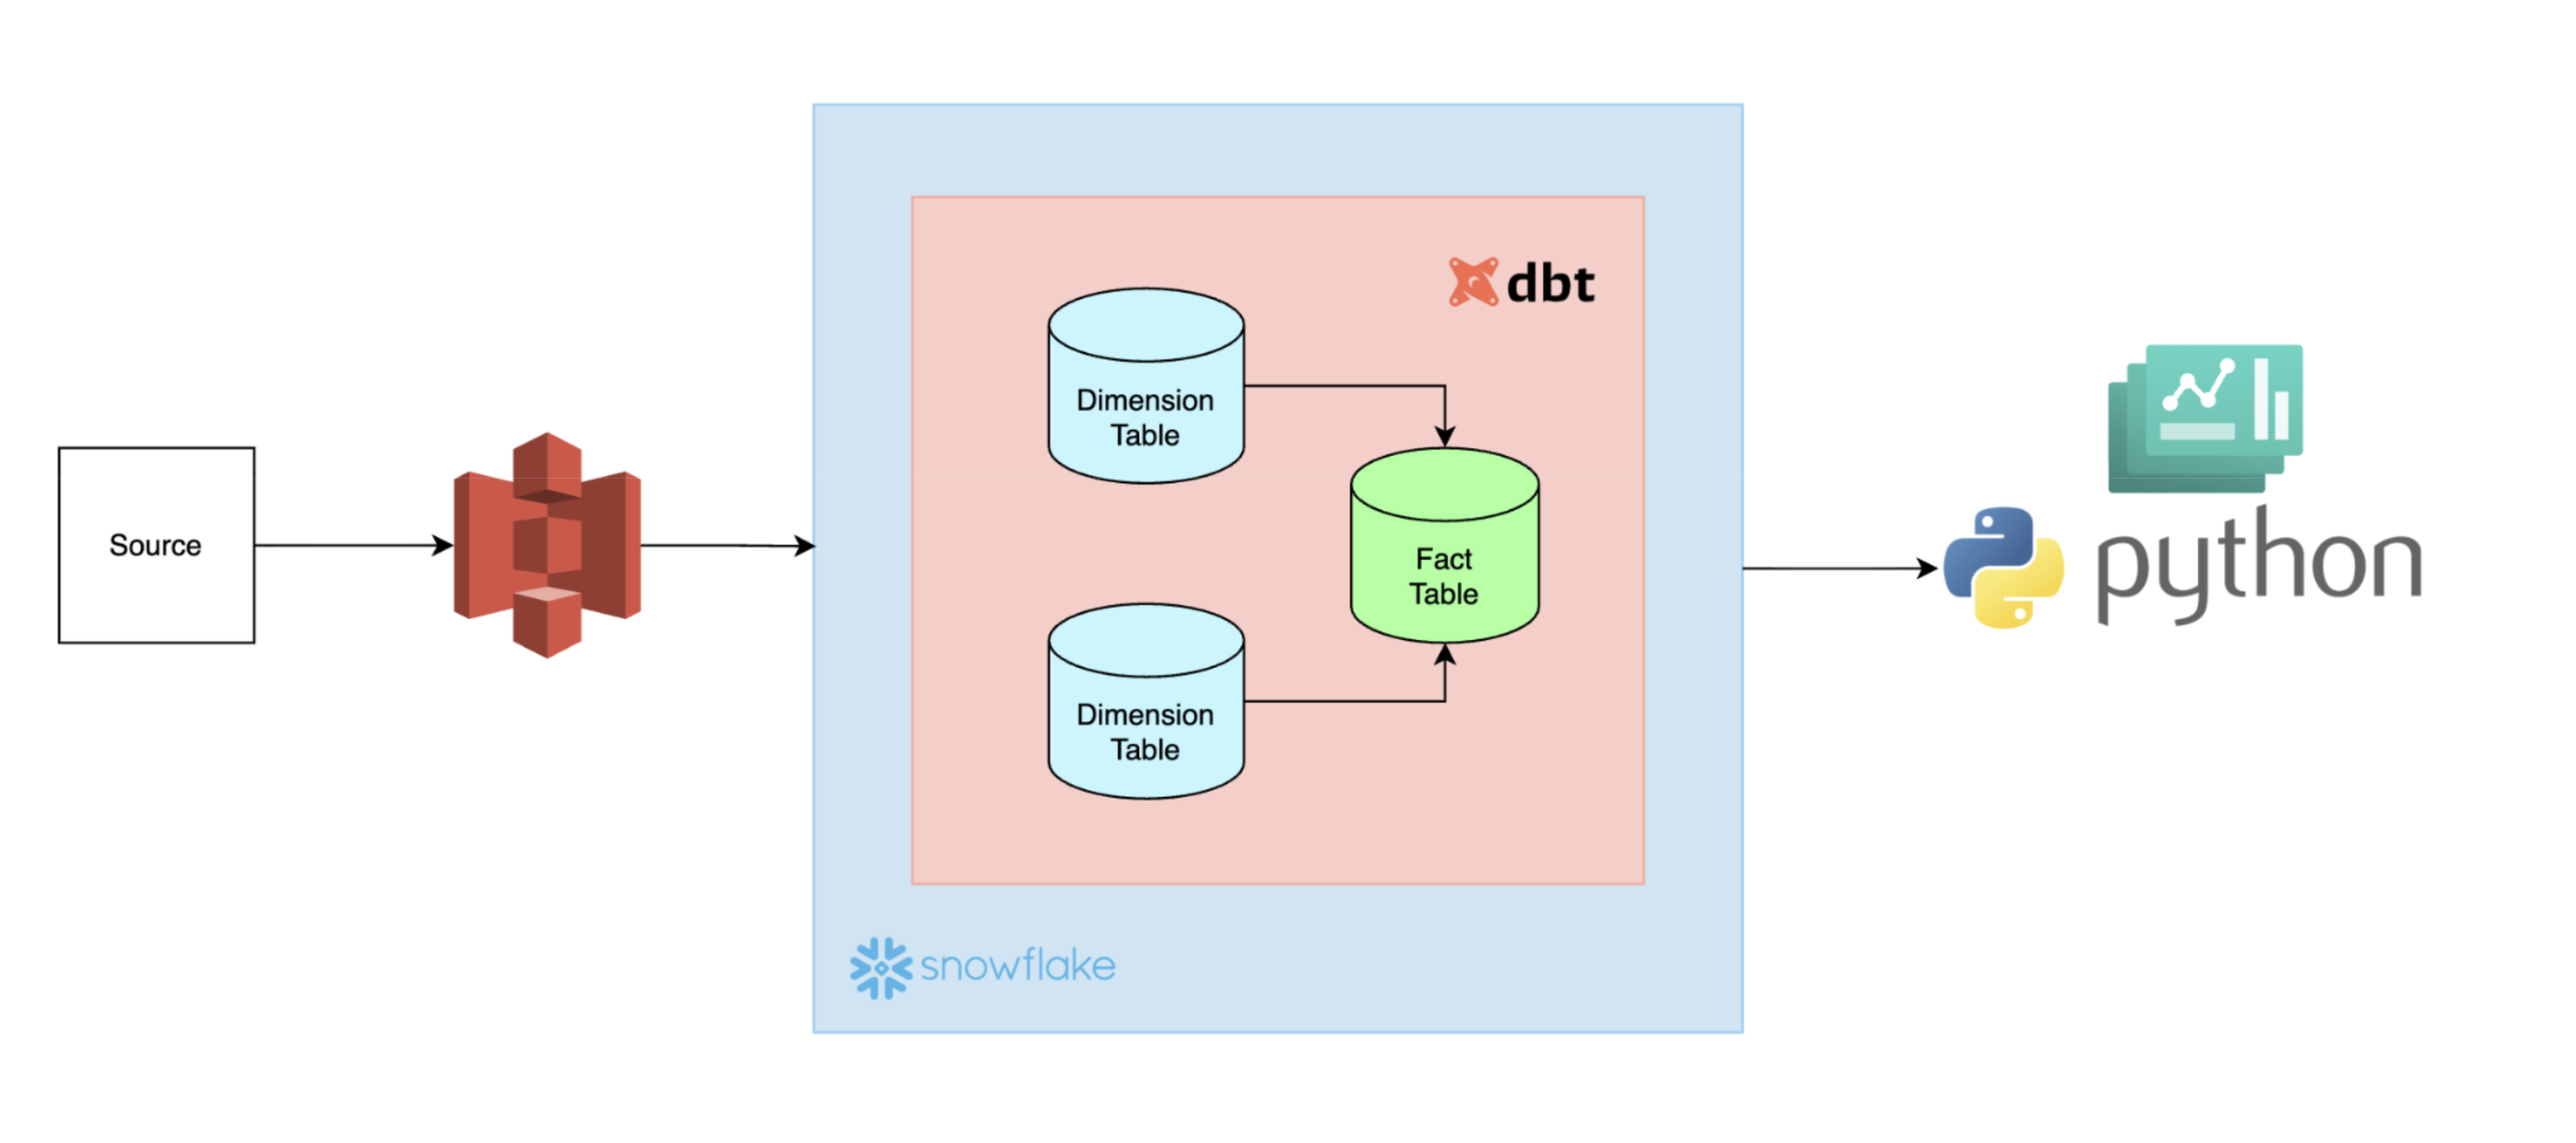
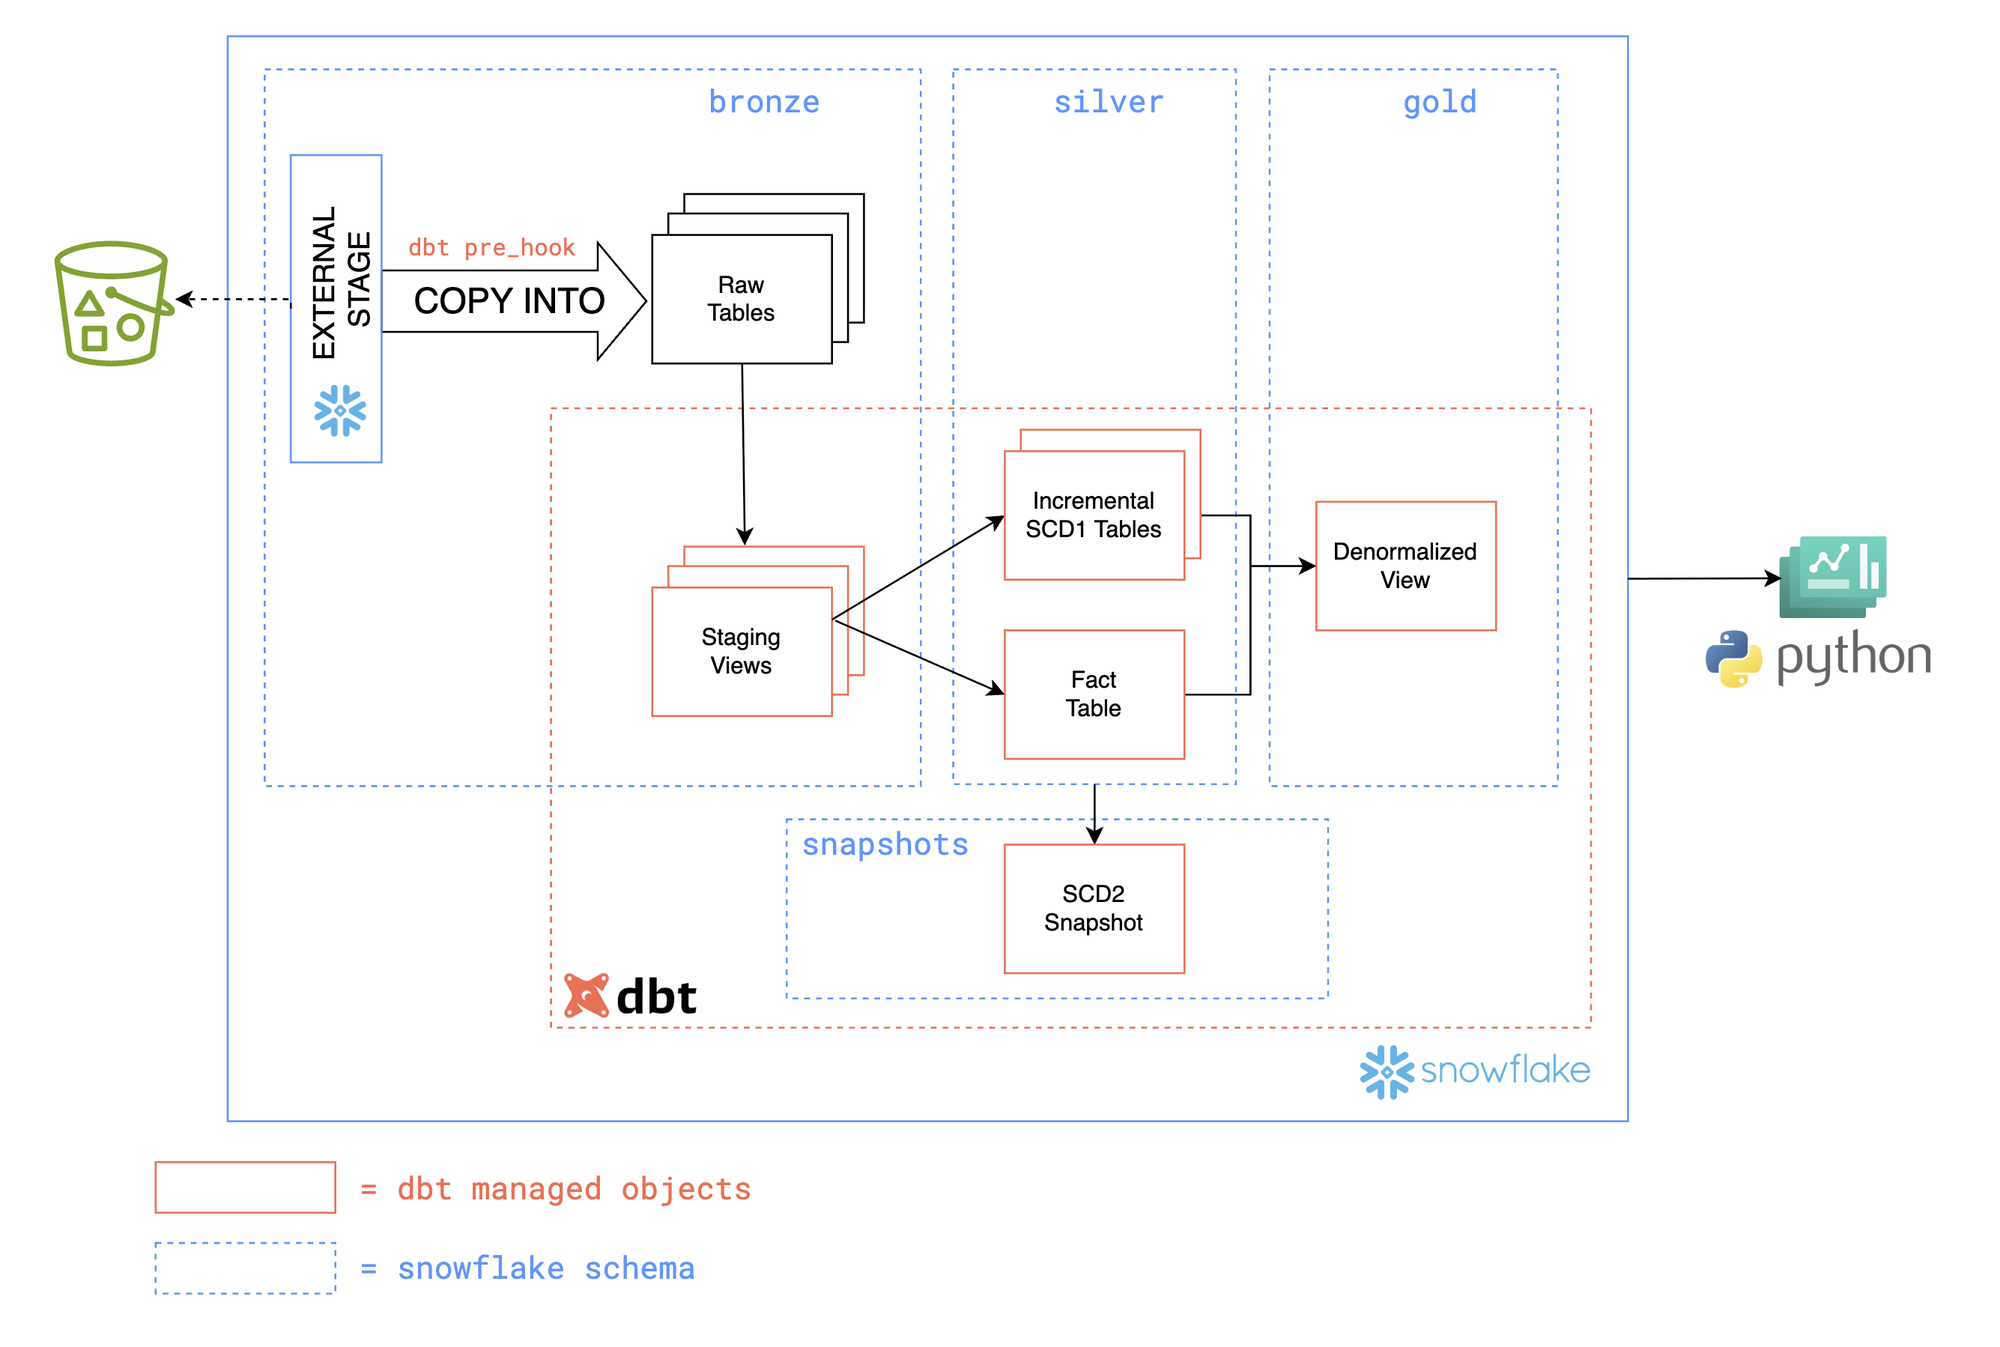
update docs and diagrams

diff --git a/docs/walmart.md b/docs/walmart.md
@@ -3,71 +3,72 @@
 ## Business goal
 Build clean, analytics-ready datasets to study weekly store department sales and how they relate to store attributes and external drivers (fuel price, temperature, unemployment, CPI, markdowns, holidays).
 
-Data sources:
-- Stores attributes for each store
-- Weekly sales by store-department
-- Weekly external factors & markdown sales by store
+Inputs:
+- `stores` - store attributes (type, size)
+- `dept_sales` - weekly sales by store + department
+- `signals` - weekly external factors + markdowns by store
 
 Outputs: 
-- Final tables created in Snowflake using DBT include:
-  - `dim_store` (SCD1, row per store-department)
-  - `dim_date` (SCD1, row per week)
-  - `fct_sales_enriched` (SCD2, row per store-department-week)
-- Visualizations for BI reporting using Python libraries & snowflake connector
+- `dim_store` (SCD1) - grain: (store_id, dept_id)
+- `dim_date` (SCD1) - grain: (store_date) (week-ending Friday)
+- `fct_sales_enriched` - grain: (store_id, dept_id, store_date)
+- `sales_enriched_snapshot` (SCD2) - history of enriched sales
+- `weekly_sales` - denormalized view used by Python
 
 ## Architecture
 This pipeline ingests Walmart retail datasets from S3, builds fact and dimensions tables in Snowflake using dbt, captures historical changes, and produces visualizations for BI reporting in Python.
 
 ![](arch.png)
 
-S3 bucket contains CSV data for each dataset:
-- `stores/stores.csv` - store attributes
-- `department/department.csv` - store department weekly sales
-- `fact/fact.csv` - external factors by store and week
+#### Storage layout
+- S3 bucket contains CSV data for each dataset
+- Snowflake defines the following schemas and objects:
+  - `bronze`: external stage (S3) + raw tables + staging views
+  - `silver`: conformed dimensions (SCD1) + enriched fact
+  - `snapshots`: SCD2 history table (dbt snapshot)
+  - `gold`: denormalized analytics view for consumption
 
-Target database is stored in Snowflake with the following schemas:
-- Bronze schema: external stage for S3, raw source tables
-- Silver schema: clean tables built by DBT
-- Gold schema: denormalized analytics view built by DBT
+#### Pipeline flow (dbt)
 
-DBT loads source data from S3, builds fact and dimensions tables in Snowflake, and captures historical changes.
+1. Ingest raw CSVs from S3
+    - `load_csv` macro runs `COPY INTO` command into raw tables: `stores_raw`, `department_raw`, `fact_raw` (bronze)
+    - Triggered via pre-hook on each staging model
+2. Build staging models (bronze)
+    - `stg_stores` (grain: store)
+    - `stg_dept_sales` (grain: store-department-week)
+    - `stg_signals` (grain: store-week)
+3. Build silver models 
+    - `dim_store` (SCD1, incremental merge) - store + department with latest store attributes
+    - `dim_date` (SCD1, incremental merge) - weekly date spine + flags (e.g. isholiday)
+    - `fct_sales_enriched` - joins weekly sales to signals at store-department-week grain
+4. Build snapshot
+    - `sales_enriched_snapshot` captures historical changes for selected measures
+5. Build gold model
+    - `weekly_sales` joins fact and dimensions to denormalized analytics view
+6. Query and visualize (Python notebook)
+    - Python-snowflake connector is used to query final tables in Snowflake
+    - Matplotlib & seaborn used to create visualizations for BI reporting
+  
 
-- Loads raw source tables from S3
-  - `load_csv` macro runs `COPY INTO` command using args for each table: `stores_raw`, `department_raw`, `fact_raw`
-  - Configured as pre-hook for each staging model in bronze layer
-- Builds staging models 1:1 with sources
-  - `stg_stores` (grain: store)
-  - `stg_dept_sales` (grain: store-department-week)
-  - `stg_signals` (grain: store-week)
-- Builds incremental models implementing SCD1 for
-  - `dim_store` (grain: store-department)
-  - `dim_date` (grain: week)
-- Builds SCD2 model for enriched sales in two steps
-  - `fct_sales_enriched` (grain: store-department-week)
-  - `sales_enriched_snapshot` (snapshot captures historical changes on table above)
-- Python code used to produce visualizations for BI reporting with Python libraries
-  - Python-snowflake connector is used to query final tables in Snowflake
-  - Matplotlib & seaborn used to create visualizations
 
+## Running pipeline
+1) Provision Snowflake objects: `snowflake/walmart.sql`  
+2) Run dbt:
+```bash
+dbt build --select models/walmart/bronze
+dbt build --select models/walmart/silver
+dbt snapshot
+dbt build --select models/walmart/gold
+```
 
 ## DBT Lineage Graph
 
 ![](dbt_lineage.png)
 
-## Setup
-Run snowflake/walmart.sql to create database and define source tables in Snowflake SQL file.
 
-## DBT Job
-Run DBT commands to build pipeline.
-```
-dbt build --select "models/walmart/bronze"
-dbt build --select "models/walmart/silver"
-dbt snapshot
-dbt build --select "models/walmart/gold"
-```
 
 ## Visualizations
-Visualizations for BI reporting produced in Python [`walmart_analysis`](../visualizations/walmart_analysis.ipynb).
+Notebook: [`walmart_analysis`](../visualizations/walmart_analysis.ipynb).
 
 ![](../visualizations/sales_by_store_holiday.png)
 ![](../visualizations/weekly_sales_by_store_type.png)
@@ -109,3 +110,8 @@ Visualizations for BI reporting produced in Python [`walmart_analysis`](../visua
     ├── packages.yml        # shared
     └── dbt_project.yml     # shared (multi-project)
 ```
+
+- `snowflake/walmart.sql` creates database, schemas, external stage, file format, and raw tables in Snowflake
+- `dbt/macros/load_csv.sql` defines pre-hook ingestion macro
+- `dbt/models/walmart/*` defines dbt-managed models
+- `dbt/snapshots/sales_enriched_snapshot.sql` defines the SCD2 snapshot
